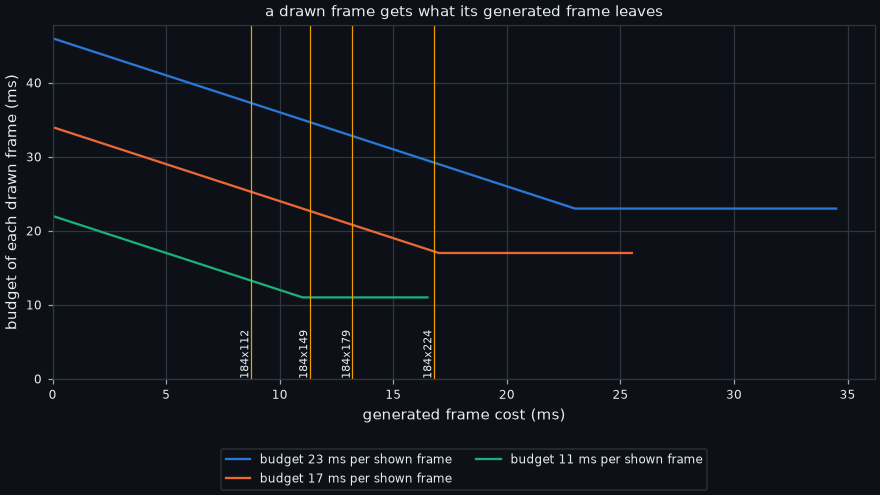
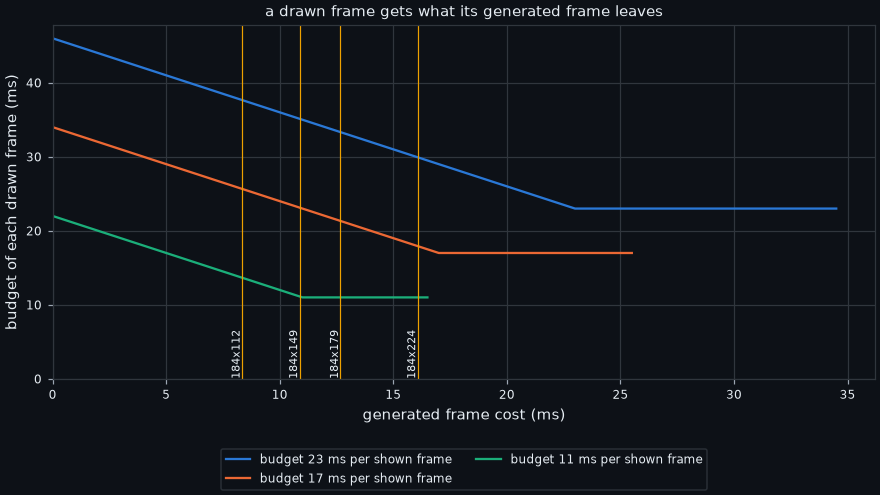
framegen: the warp's reciprocal from mathf_recip_approx
14 bits is a hundredth of a pixel across the picture; on A308 the warp
takes 6% less at every half-picture size (10.50 -> 9.87 ms at 184x224,
5.07 -> 4.76 ms at 184x112, two A/B pairs), holes unchanged. The board
log gains the capture, and the cost tables and pricing figure follow it.

Changed region(s): [[0.2455, 0.6667, 0.3989, 0.7576], [0.4602, 0.6667, 0.4909, 0.7576]]

diff --git a/launcher/main/render/framegen/framegen.c b/launcher/main/render/framegen/framegen.c
@@ -88,7 +88,7 @@ typedef struct {
 static inline carried_t
 carry(const float at[3], const float per_depth[3], float d) {
     const float z = at[2] + (per_depth[2] * d);
-    const float inv = mathf_recip(z);
+    const float inv = mathf_recip_approx(z); /* 14 bits: a hundredth of a pixel across the picture */
     return (carried_t){(at[0] + (per_depth[0] * d)) * inv, (at[1] + (per_depth[1] * d)) * inv, inv};
 }
 

diff --git a/docs/render/Frame-Generation.md b/docs/render/Frame-Generation.md
@@ -140,17 +140,17 @@ half-picture step. At 24 poses along it, it warps the drawn frame one display
 step on, both cores taking half the rows, and fills the holes. Compose is
 the frame's own upscale into the half picture; the send overlaps it.
 
-<!-- generated: framegen-board sha256=90325600d36705beecfff66387db6d116777f532da4dd0a5b1b66e1a2a2546e1 -->
+<!-- generated: framegen-board sha256=22c6e04ff2ccbebac074a209146e63d5f3166699f58b0e3bdb739a1b1468c42c -->
 | Scene | Size | Drawn frame | Warp | Fill | Compose | Generated frame |
 |---|---|---|---|---|---|---|
-| bistro-fitted-full | 184x224 | 43.7 ms | 10.5 ms | 3.8 ms | 2.5 ms | 16.8 ms |
-| bistro-fitted-full | 184x179 | 40.2 ms | 8.1 ms | 2.9 ms | 2.2 ms | 13.2 ms |
-| bistro-fitted-full | 184x149 | 37.7 ms | 6.8 ms | 2.5 ms | 2.0 ms | 11.3 ms |
-| bistro-fitted-full | 184x112 | 34.8 ms | 5.1 ms | 1.9 ms | 1.7 ms | 8.7 ms |
-| sponza-fitted-full | 184x224 | 50.5 ms | 10.6 ms | 3.8 ms | 2.7 ms | 17.0 ms |
-| sponza-fitted-full | 184x179 | 46.0 ms | 8.3 ms | 3.0 ms | 2.3 ms | 13.6 ms |
-| sponza-fitted-full | 184x149 | 43.0 ms | 6.9 ms | 2.5 ms | 2.1 ms | 11.5 ms |
-| sponza-fitted-full | 184x112 | 39.0 ms | 5.1 ms | 1.9 ms | 1.8 ms | 8.8 ms |
+| bistro-fitted-full | 184x224 | 43.5 ms | 9.9 ms | 3.7 ms | 2.5 ms | 16.1 ms |
+| bistro-fitted-full | 184x179 | 40.1 ms | 7.6 ms | 2.9 ms | 2.2 ms | 12.7 ms |
+| bistro-fitted-full | 184x149 | 37.6 ms | 6.4 ms | 2.5 ms | 2.0 ms | 10.9 ms |
+| bistro-fitted-full | 184x112 | 34.7 ms | 4.8 ms | 1.9 ms | 1.7 ms | 8.3 ms |
+| sponza-fitted-full | 184x224 | 50.3 ms | 10.0 ms | 3.9 ms | 2.6 ms | 16.4 ms |
+| sponza-fitted-full | 184x179 | 45.9 ms | 7.8 ms | 3.0 ms | 2.3 ms | 13.1 ms |
+| sponza-fitted-full | 184x149 | 42.9 ms | 6.5 ms | 2.5 ms | 2.0 ms | 11.0 ms |
+| sponza-fitted-full | 184x112 | 38.9 ms | 4.8 ms | 1.9 ms | 1.8 ms | 8.4 ms |
 <!-- /generated: framegen-board -->
 
 - A generated frame costs a third to two fifths of a drawn one at 184x224
@@ -162,23 +162,25 @@ Where the warp's time goes. The same warp is timed with every splat off screen
 (the clear, the maths and the source reads), to the drawn view itself (adding
 every write, in order), and to the next view (adding their scatter):
 
-<!-- generated: framegen-profile sha256=2843de71907fbba4598fa433f07415710048ff3f9cc97b0fd59874b06c7ae7fe -->
+<!-- generated: framegen-profile sha256=e35c48d3da642a0a93ab88915900db06492325724eaad3f42b445b5cb9704608 -->
 | Scene | Size | Clear | Off screen | To the drawn view | To the next view |
 |---|---|---|---|---|---|
-| bistro-fitted-full | 184x224 | 0.8 ms | 10.8 ms | 10.5 ms | 10.5 ms |
-| bistro-fitted-full | 184x179 | 0.6 ms | 7.7 ms | 8.3 ms | 8.1 ms |
-| bistro-fitted-full | 184x149 | 0.5 ms | 6.5 ms | 6.9 ms | 6.8 ms |
-| bistro-fitted-full | 184x112 | 0.3 ms | 4.9 ms | 5.1 ms | 5.1 ms |
-| sponza-fitted-full | 184x224 | 0.8 ms | 10.9 ms | 10.5 ms | 10.6 ms |
-| sponza-fitted-full | 184x179 | 0.6 ms | 7.8 ms | 8.3 ms | 8.3 ms |
-| sponza-fitted-full | 184x149 | 0.5 ms | 6.5 ms | 6.9 ms | 6.9 ms |
-| sponza-fitted-full | 184x112 | 0.3 ms | 4.9 ms | 5.1 ms | 5.1 ms |
+| bistro-fitted-full | 184x224 | 0.8 ms | 10.2 ms | 9.8 ms | 9.9 ms |
+| bistro-fitted-full | 184x179 | 0.6 ms | 7.3 ms | 7.7 ms | 7.6 ms |
+| bistro-fitted-full | 184x149 | 0.5 ms | 6.1 ms | 6.4 ms | 6.4 ms |
+| bistro-fitted-full | 184x112 | 0.3 ms | 4.6 ms | 4.8 ms | 4.8 ms |
+| sponza-fitted-full | 184x224 | 0.8 ms | 10.3 ms | 9.8 ms | 10.0 ms |
+| sponza-fitted-full | 184x179 | 0.6 ms | 7.3 ms | 7.8 ms | 7.8 ms |
+| sponza-fitted-full | 184x149 | 0.5 ms | 6.1 ms | 6.4 ms | 6.5 ms |
+| sponza-fitted-full | 184x112 | 0.4 ms | 4.6 ms | 4.8 ms | 4.8 ms |
 <!-- /generated: framegen-profile -->
 
 The three warps cost the same: writing and scattering the splats is free next
 to the maths. The warp is bound by its arithmetic, a reciprocal and about ten
 multiply-adds per pixel, so it takes two pixels a step and lets their
-dependent chains overlap.
+dependent chains overlap. The reciprocal keeps 14 bits
+(`mathf_recip_approx`), a hundredth of a pixel across the picture, which
+saves 6% of the warp over a full-precision one.
 
 ## With dynamic resolution
 

diff --git a/docs/math/Fast-Paths.md b/docs/math/Fast-Paths.md
@@ -220,7 +220,7 @@ Target: Xtensa: `recip0.s`, `madd.s`, `msub.s`.
 
 Builds: `CONFIG_MATH_FPU_RECIP`; QEMU plain; host plain.
 
-Callers: none.
+Callers: `render`.
 
 Bench rows `mathf_recip_approx_f` vs `div_recip_f`; limit `MATHF_RECIP_APPROX_RELATIVE_LIMIT` (2^-14 rel, 14 bits); proof.
 
